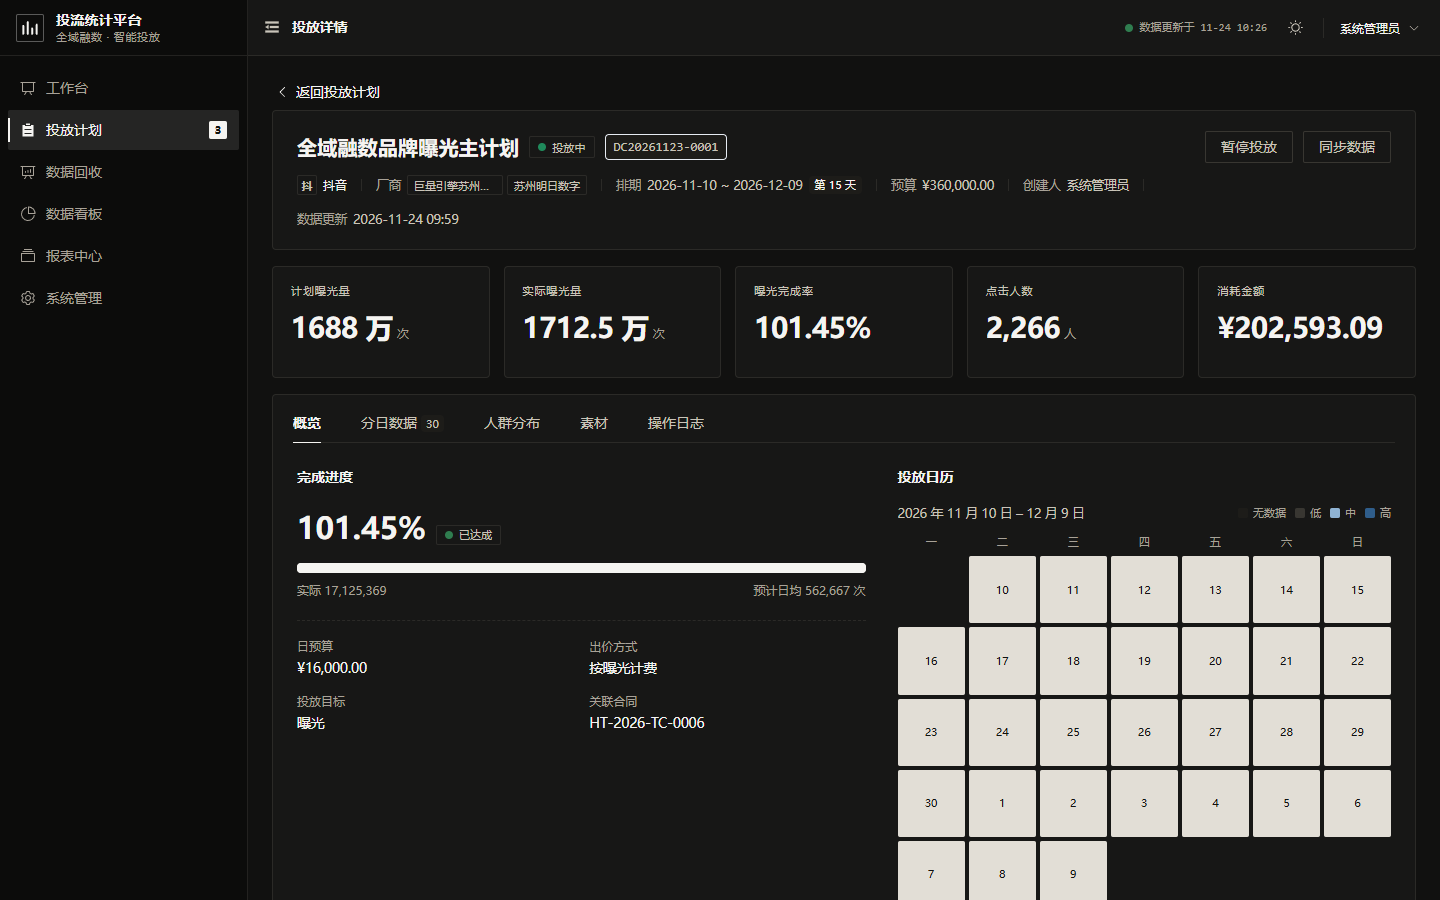
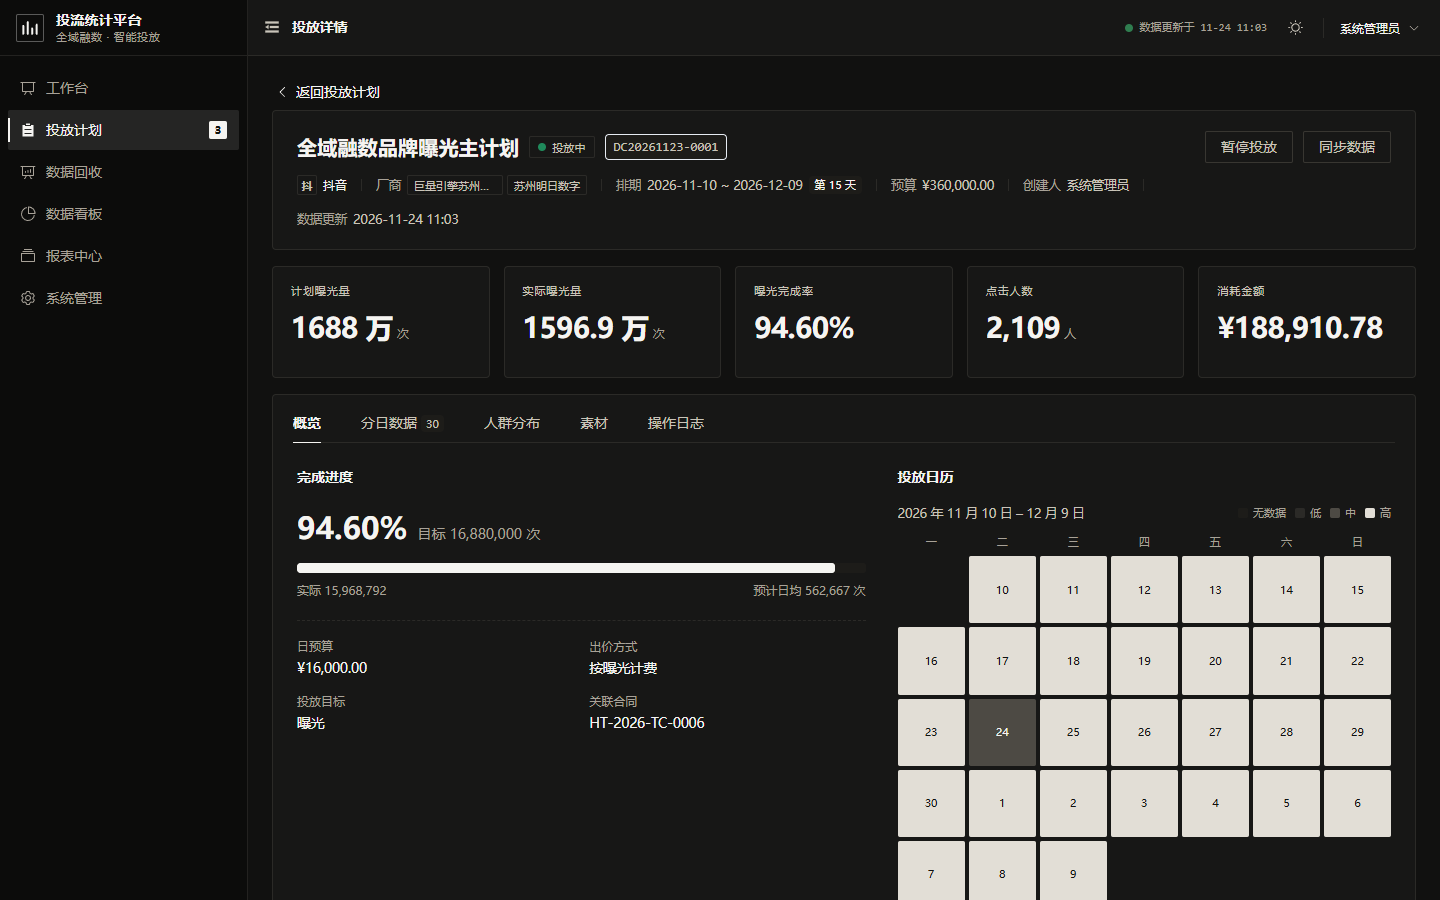
对齐投流颜

diff --git a/src/views/campaign/detail.vue b/src/views/campaign/detail.vue
@@ -1197,13 +1197,13 @@ onMounted(loadDetail)
   background: var(--ink-50);
 }
 .legend-block.level-1 {
-  background: var(--color-border);
+  background: var(--ink-100);
 }
 .legend-block.level-2 {
-  background: #8fb3d3;
+  background: var(--ink-300);
 }
 .legend-block.level-3 {
-  background: var(--signal-info);
+  background: var(--ink-800);
 }
 .calendar-grid {
   display: grid;
@@ -1236,11 +1236,11 @@ onMounted(loadDetail)
   color: var(--color-text-tertiary);
 }
 .calendar-cell.level-1 {
-  background: var(--ink-75);
+  background: var(--ink-100);
   color: var(--color-text-secondary);
 }
 .calendar-cell.level-2 {
-  background: var(--ink-200);
+  background: var(--ink-300);
   color: var(--color-text);
 }
 .calendar-cell.level-3 {
